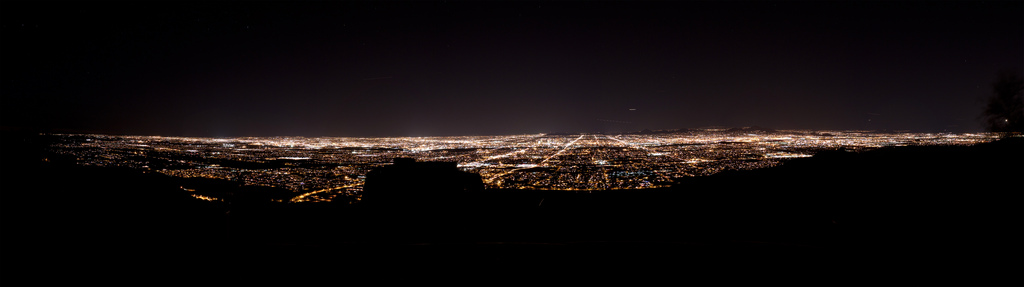
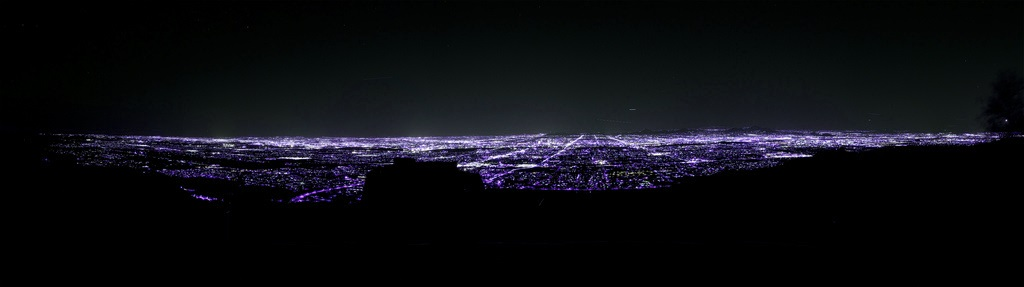
Change background to blue/purple

Changed region(s): [[0.0625, 0.446, 1.0, 0.7247], [0.1875, 0.669, 0.2188, 0.6969]]

diff --git a/main.js b/main.js
@@ -1,6 +1,6 @@
 var game = new Phaser.Game(800, 480, Phaser.AUTO, '', { preload: preload, create: create, update: update });
 var gravity = 20; // default, no-air-resistance gravity
-var groundY = 1000;
+var groundY = 5000;
 var camera;
 var bgSprite;
 var player;
@@ -72,9 +72,9 @@ function create () {
   buildings = new Buildings(game, groundY, groups);
   var gameWidth = 0;
   var i;
-  for (i = 0; i < 2; i++) {
+  for (i = 0; i < 4; i++) {
     var width = Math.round(Math.random() * 400 + 200);
-    var height = Math.round(9800 - Math.random() * 1000);
+    var height = Math.round(groundY - 200 - Math.random() * 1000);
     buildings.add(width, height, enemies);
     gameWidth += width + buildingGap;
   }
